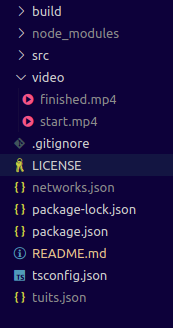
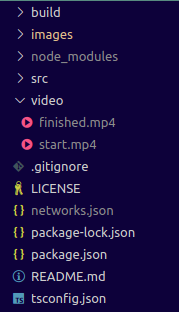
Updated readme.

diff --git a/README.md b/README.md
@@ -1,6 +1,12 @@
 # Twitter Link To Telegram Bot
 Telegram bot in NodeJS for get n number of links of a twitter profile TL.
 
+# Install
+For install the bot, use the following console command:
+```shell
+$ npm install
+```
+
 # Configuration
 In root folder, create a video folder and put two videos: finished.mp4 and start.mp4.
 
@@ -31,9 +37,27 @@ In root folder, create a file `networks.json` and put the following content for 
 }
 ```
 
+About Twitter *consumer_key*, *consumer_secret*, *access_token_key*, and *access_token_secret*, these are 2 keys for  your Twitter Oauth Profile and other 2 keys your Twitter App. If you don't have one of this, you can create an Twitter App and get the keys in a few minutes following good tutorials [like this one](https://www.youtube.com/watch?v=LpLYQz_3hA0).
+
+About Telegram *telegram_bot_token*, it is a token that you can have creating your Telegram bot app using the BotFather. You can see a tutorial about [create bot with BotFather in the official Telegram documentation](https://core.telegram.org/bots#6-botfather).
+
 For list ID you can see the [twitter documentation about list](https://developer.twitter.com/en/docs/accounts-and-users/create-manage-lists/api-reference/get-lists-statuses).
 
+About *bot_tuit_command* and *bot_list_command*, you can put the command that you want to send from Telegram client to your bot for getting the TL or list links.
 
 So, the final folder structure will be the following:
 
 ![finalPathScript](https://raw.githubusercontent.com/sermmor/twitter-link-telegram-bot/master/images/finalPathScript.png)
+
+# Start the bot.
+For start the bot, you have to to launch the following console command:
+```shell
+$ npm start
+```
+
+# Use the bot.
+For start the bot send `\start`.
+
+For get links from tweets of a TL, you have to send `\[*bot_tuit_command*][number ending in 10]`. For instance if our *bot_tuit_command* is *"MyTLIsGreat"*, and you want 400 links with links (if there is less than 400, it sends all that Twitter API can) (400 is ends in 10, so, for instance, you can't 401 or 15), the command to send from client will be `\MyTLIsGreat400`.
+
+For get links from tweets of a list, you have to send `\[*bot_list_command*][number ending in 10]`. For instance if our *bot_list_command* is *"TheGreatestLinksAgain"*, and you want 400 links with links (if there is less than 400, it sends all that Twitter API can) (400 is ends in 10, so, for instance, you can't 401 or 15), the command to send from client will be `\TheGreatestLinksAgain400`.
